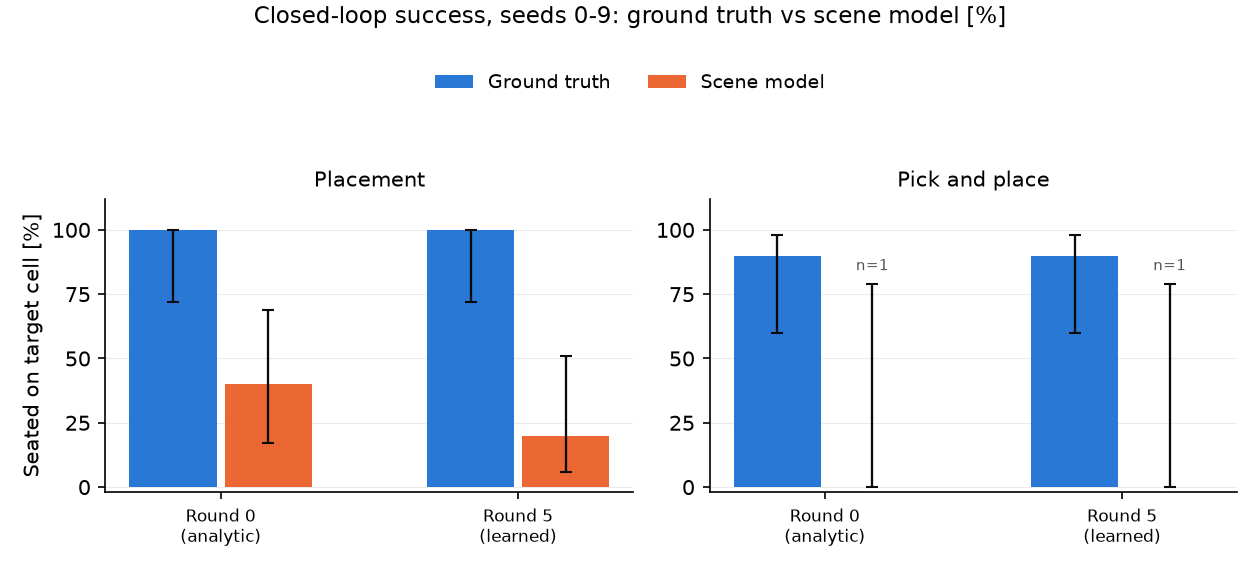
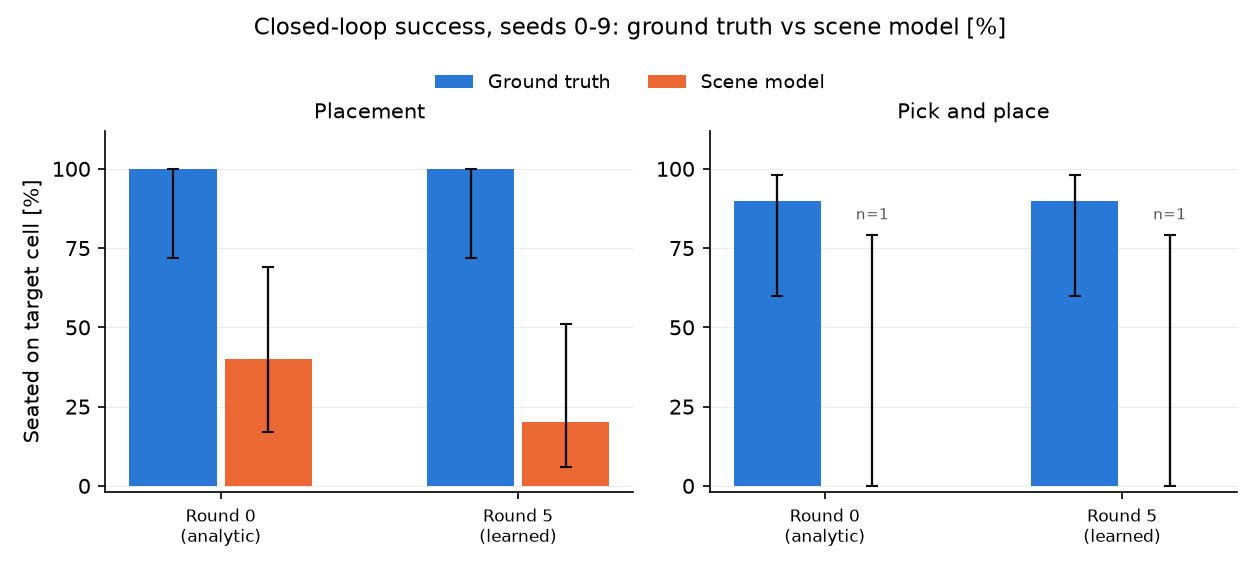
Correct the wall-time, mislabeling and blind-step claims on the scene-model page
The cost section misreported measured data: the five slowest round-5 placement
episodes were mistyped (missing 220.8 s), round 0 was described as ten placement
episodes when evaluate.csv has twenty (two predictor columns), and the page said
no per-episode replan/tick data existed to separate replanning from machine load
when evaluate.csv's replanned and vision_ticks columns show identical work across
rounds and even across predictor columns of the same round. Rewrote the section
from a fresh read of both rounds' evaluate.csv: round 5's slow tail belongs
entirely to the analytic-inverse recheck recheck_analytic reruns at the final
round, not to the learned pair, whose own placement rows run 17-56 s.

The mislabeling section misread the caches it cited: a ground-truth
pick_and_place Approach frame names supply_brick_0 in 520 of 620 frames, not an
empty set by design; placement's cnn body sets are empty in only 166 of 1597
frames (Align never empty), not "frequently empty"; and 'held' at
Release/Retract/Verify is the released brick's own MuJoCo body name, not a
mislabeling. Recomputed all three from the recorded pkl caches directly.

twin.py's BlindStep fix is now stated as inferred from _prepare_step, not
observed: no episode was run with the fix applied (a single-episode check
queued behind the machine's load and did not get a slot in time), and neither
place.py nor campaign/tasks.py give a blind step its own failure class, so its
[…]

diff --git a/tests/action/test_twin_blind_step.py b/tests/action/test_twin_blind_step.py
@@ -1,5 +1,4 @@
-"""`DigitalTwin.build_step` with nothing to line up on: a scored failure, not a batch-killing
-crash.
+"""DigitalTwin.build_step with too few reference blobs
 
 Under `--source cnn` the recorded reference set for a step can point at bodies the twin's own
 render never shows (the scene model's slot ids are not the renderer's instance ids -- see
@@ -25,7 +24,7 @@ def twin():
     twin.close()
 
 
-def test_zero_reference_blobs_raises_blind_step_not_runtime_error(twin, capsys) -> None:
+def test_zero_named_bodies_raises_blind_step_not_runtime_error(twin) -> None:
     from brick_builder.action.twin import BlindStep
 
     goal_tcp = np.array([0.20, 0.0, 0.05])
@@ -37,10 +36,42 @@ def test_zero_reference_blobs_raises_blind_step_not_runtime_error(twin, capsys) 
     assert isinstance(excinfo.value, RuntimeError)
 
 
-def test_zero_reference_blobs_logs_the_count(twin, capsys) -> None:
+def test_zero_named_bodies_logs_the_count(twin, capsys) -> None:
+    from brick_builder.action.twin import BlindStep
+
     goal_tcp = np.array([0.20, 0.0, 0.05])
-    with pytest.raises(Exception):
+    with pytest.raises(BlindStep):
         twin.build_step("Approach", goal_tcp, 0.0, {}, min_refs=1)
     err = capsys.readouterr().err
     assert "0 of 0 reference" in err
     assert "Approach" in err
+
+
+def test_one_named_body_out_of_frame_raises_blind_step(twin, monkeypatch, capsys) -> None:
+    """A body that `calibrate` resolves to a real slot (so it counts as a reference) but that
+    `reference_features` then finds no usable blob for (the "0 of the 1" case seen at `Lift` in
+    `results/campaign/closed_loop_cnn/rounds/r0/evaluate_process_0.log:59`) is the same branch as
+    the zero-bodies case above, with a non-zero denominator. `reference_features` is patched to
+    drop every centre it would otherwise report -- the truncation or tolerance mismatch that does
+    that in a real render is not reproduced here, only its effect on `build_step`.
+    """
+    from brick_builder.action import servo as servo_mod
+    from brick_builder.action.twin import BlindStep
+
+    real_reference_features = servo_mod.reference_features
+
+    def no_centres(state, references):
+        found = real_reference_features(state, references)
+        for name in found.centres:
+            found.centres[name] = None
+        return found
+
+    monkeypatch.setattr(servo_mod, "reference_features", no_centres)
+
+    goal_tcp = np.array([0.20, 0.0, 0.05])
+    bodies = {"the plate": twin.scene.plate.name}
+    with pytest.raises(BlindStep) as excinfo:
+        twin.build_step("Approach", goal_tcp, 0.0, bodies, min_refs=1)
+    assert "shows 0 of the 1 reference blobs" in str(excinfo.value)
+    err = capsys.readouterr().err
+    assert "0 of 1 reference" in err

diff --git a/brick_builder/action/learn/dataset.py b/brick_builder/action/learn/dataset.py
@@ -126,9 +126,11 @@ def hindsight_pairs(data: Episodes, rng: np.random.Generator, *, repeats: int = 
     dwell is: there the change of the scene between `i` and `i + j` is the correction's doing and
     not the feed-forward's. Leaving it `None` uses every acting tick.
 
-    Empty, not an error, when nothing in the log passes the `trusted & ~frozen` gate: `x`/`y` come
-    back with zero rows and `log` gets one line saying so, so a round with nothing to learn from
-    skips training instead of failing on `np.stack([])`.
+    Empty, not an error, when nothing in the log produces a usable window -- whether because
+    nothing passes the `trusted & ~frozen` gate, or because everything that does is then dropped
+    by the same-step or travel filter: `x`/`y` come back with zero rows and `log` gets one line
+    saying which case it was, so a round with nothing to learn from skips training instead of
+    failing on `np.stack([])`.
     """
     corr = data.corrections()
     obs, val, wgt = data["obs_rows"], data["obs_valid"], data["obs_weight"]
@@ -153,8 +155,14 @@ def hindsight_pairs(data: Episodes, rng: np.random.Generator, *, repeats: int = 
         idx.append(i)
         js.append(j)
     if not xs:
-        log(f"hindsight_pairs: 0 of {data.n} logged ticks pass the trusted-and-not-frozen gate "
-            f"({int(acting.sum())} acting tick(s) total); no hindsight pairs")
+        gate = int(acting.sum())
+        if gate == 0:
+            log(f"hindsight_pairs: 0 of {data.n} logged ticks pass the trusted-and-not-frozen "
+                f"gate; no hindsight pairs")
+        else:
+            log(f"hindsight_pairs: {gate} of {data.n} logged ticks pass the "
+                f"trusted-and-not-frozen gate, but same-step and travel filtering dropped every "
+                f"window; no hindsight pairs")
         x = np.zeros((0, INVERSE_IN), dtype=np.float64)
         y = np.zeros((0, INVERSE_OUT), dtype=np.float64)
     else:

diff --git a/brick_builder/action/twin.py b/brick_builder/action/twin.py
@@ -217,7 +217,8 @@ class DigitalTwin:
             # and treats the step as untrusted rather than losing the whole episode. The count is
             # printed here because nothing downstream of the catch sees this message again.
             print(f"twin: step {name!r} sees {len(names)} of {len(references)} reference "
-                  f"blob(s), needs {min_refs}; scoring this step blind", file=sys.stderr)
+                  f"blob(s), needs {min_refs}; step marked untrusted, no correction applied",
+                  file=sys.stderr)
             raise BlindStep(
                 f"step {name!r}: the twin only shows {len(names)} of the "
                 f"{len(references)} reference blobs, which is not enough to line up on"

diff --git a/docs/guide/16b-campaign-on-the-scene-model.md b/docs/guide/16b-campaign-on-the-scene-model.md
@@ -20,8 +20,7 @@ name differ from `docs/guide/16-closed-loop-campaign.md`.
 `brick_builder/perception/weights/vision_model.pt`, sha256
[1 lines of base64/hex data omitted]
 page is against this checkpoint. A later checkpoint at the same path needs its own sha256 line
-here and its own numbers; a changed weights file changes what the scene model reports, which is
-exactly what this page measures.
+here and its own numbers.
 
 `brick_builder/action/twin.py` and `brick_builder/action/learn/dataset.py` changed after the
 numbers below were measured (see Fixes to the crashes); the sha256 above did not change, and the
@@ -125,26 +124,45 @@ place's two scene-model bars are the same one-episode measurement described abov
 | Campaign | Round | Evaluate [min] | Episodes scored | Episodes crashed |
 |---|---|---|---|---|
 | `closed_loop_cnn` | 0 (analytic) | 18.8 | 21 / 30 | 9 |
-| `closed_loop_cnn` | 5 (r5 learned) | 49.3 | 41 / 50 | 9 |
+| `closed_loop_cnn` | 5 (learned, plus the analytic recheck) | 49.3 | 41 / 50 | 9 |
 
 Total heavy time for this step: 68.1 min inside `run_campaign.py` (both rounds, cumulative, the
 figure the campaign itself reports) plus roughly 10 min of one-off recording outside it, seeds 0-9
 for both tasks (see The pickling workaround) -- about 78 min against the 60-minute target.
 
-Placement's per-episode wall time spans widely and does not move the same way between rounds:
-round 0's ten placement episodes run 27-63 s; round 5's run 17-232 s, with its five slowest at
-151, 152, 163, 206 and 232 s. What made the slow round-5 episodes slower than round 0's is not
-measured here -- both replanning (a second attempt when the first cycle's brick does not land) and
-machine load from other work running at the same time are possible causes, and this page does not
-have per-episode replan counts or load samples to tell them apart.
+Placement's per-episode wall time spans widely and does not move the same way between rounds, or
+even between two rows of the same round. Round 0 scores placement twenty times (ten seeds against
+each of two `predictor` columns, the analytic inverse throughout): 27-63 s. Round 5 scores it forty
+times (ten seeds times two inverses times two `predictor` columns), 17-232 s, but the two halves
+do not behave alike: the twenty rows using the round-5 learned inverse run 17-56 s, inside round
+0's own span; every row above 150 s uses the analytic inverse that `recheck_analytic`
+(`campaign.py:402`) reruns at the final round for comparison -- its five slowest are 151.6, 162.8,
+205.6, 220.8 and 231.8 s. The 49.3 min in the table above includes this recheck; it is not the cost
+of the learned pair.
+
+`evaluate.csv`'s `replanned` and `vision_ticks` columns separate replanning from machine load for
+these analytic-inverse rows. The same seed carries the same `vision_ticks` and the same `replanned`
+flag in round 0 and round 5 (seed 0: 163 ticks, replanned, in both), and within round 5 itself the
+two `predictor` columns for the same seed and inverse also carry identical `vision_ticks`/`replanned`
+values yet differ in wall time by up to 4x -- seed 0: 54.0 s against 205.6 s; seed 9: 71.6 s against
+220.8 s, the slower column swapping sides between the two seeds. The recorded work is identical and
+the wall time is not, so machine load from the other work running on the machine at the same time,
+not replanning, accounts for the spread.
 
 ### Mislabeled reference bodies
 
-Every `pick_and_place` crash before the fix in twin.py (see Fixes to the crashes) raised the same
-exception at `Approach` or `Lift`:
+Every `pick_and_place` crash before the fix in twin.py (see Fixes to the crashes) raised
+`RuntimeError` from the same check in `build_step`, at `Approach` or `Lift`, with a different
+reference count each time -- Approach:
 
 ```
 RuntimeError: step 'Approach': the twin only shows 0 of the 0 reference blobs, which is not enough to line up on
+```
+
+and Lift:
+
+```
+RuntimeError: step 'Lift': the twin only shows 0 of the 1 reference blobs, which is not enough to line up on
 ```
 
 The exception comes from `brick_builder/action/twin.py`'s `build_step`, called from
@@ -163,24 +181,34 @@ recorded sequence carries the scene model's states throughout (`record_for` reco
 sequence through the same source that will drive the run), so `reference_bodies()` reads slot
 indices as if they were instance ids and names the wrong body, or none, at essentially every step.
 
-The recorded caches show this directly. A ground-truth `pick_and_place` recording's `Approach`
-step names an empty reference set (nothing to line up on is asked of the twin there by design);
-the matching `--source cnn` recording for seed 0 names `{'brick to pick up': 'supply_brick_0'}` at
-`Approach` -- a real body in the twin's scene, just not the one at that pose, so `calibrate()`
-matches nothing and `build_step` raises. `placement` recordings carry the same defect but it
-surfaces differently: their per-step body sets are frequently empty outright (`Transport {}`,
-`Align {}`), which `_prepare_step` already treats as an untrusted step without raising (a body
-dict that is empty, rather than non-empty and wrong, hits a different, pre-existing branch); other
-`placement` recordings carry non-empty but arbitrary sets (`Transport {'plate'}`,
-`Align {'placed brick 1'}`, `'held'` named as a reference at `Release`/`Retract`, where nothing is
-held). Both tasks' recorded reference sets are affected; `placement` does not raise because its
-sets are more often empty than wrong.
+The recorded caches show this only partially. A ground-truth `pick_and_place` recording's
+`Approach` step names `{'brick to pick up': 'supply_brick_0'}` in 520 of 620 frames across the ten
+seeds -- every frame after the first ten of each 62-frame step. The matching `--source cnn`
+recordings name the same body in 353 of 620 Approach frames and an empty set in the other 267,
+never any other body: `place.py`'s pick-and-place filter keeps only entries that already equal
+`SUPPLY_BODY` at `Approach`/`Grasp` (`place.py:595-603`), so whatever else the slot-id/instance-id
+mismatch mislabels there is dropped rather than shown. Why the label is present in some frames and
+absent in others under `--source cnn` is not traced further here.
+
+`placement` recordings carry the same slot-id/instance-id mismatch, but under `--source cnn` most
+of their per-step body sets are not empty: `Align` is empty in none of 400 cnn frames, `Transport`
+in 14 of 80, `Press the brick down` in 144 of 728, `Verify` in 8 of 150 -- 166 of 1597 frames
+overall, about 10 %. Some non-empty sets are arbitrary (`Transport {'plate'}`,
+`Align {'placed brick 1'}`), a direct instance of the mismatch reading a real body's name off a
+slot index that only coincides with that body's instance id by chance. Why `placement`'s
+`build_step` calls do not raise despite these wrong, non-empty sets is not analyzed further here.
+
+`held` named as a reference at `Release`, `Retract` and `Verify` in ground-truth `placement`
+recordings, in all ten seeds, is not a mislabeling: the released brick keeps the MuJoCo body name
+`held` (`compose.py:917`), and `reference_bodies()` only excludes it while `_in_hand(step)`
+(`place.py:594`) -- true through `Grasp`/`Lift`/`Transport`/`Align`/`Press the brick down`, false
+once the brick is let go, so it names the released brick's own body.
 
 The pattern that stays fixed across both inverses in the table above (seven seeds crash at
 `Approach`, two at `Lift`, seed 7 is the one that completes) is the recorded label, not either
 inverse: both rounds replay the same cached `pick_and_place` recordings. Fixing the label mapping
-is `record_ideal`/`reference_bodies` in `place.py`, a file this page does not edit; this page
-measures and reports it.
+needs a change in `record_ideal`/`reference_bodies` (`place.py`); this page reports the effect, not
+the fix.
 
 ### Training round
 
@@ -226,22 +254,26 @@ tests/action` also passes, 47 tests, no regressions).
   `_prepare_step` already catches `BlindStep` and marks the step untrusted instead of losing the
   episode. The first check now raises `BlindStep` too, and prints the count (blobs seen, blobs
   needed, the step name) to stderr before raising, since nothing downstream of the catch sees the
-  message again. A `pick_and_place` episode that hits this at `Approach` or `Lift` now plays that
-  step open-loop rather than raising; it is scored by `verify_placement` at the end like any other
-  episode. This was not re-run through a campaign (see Scene-model weights); the crash counts in
-  the table above are from before this change.
+  message again. Reading `_prepare_step`, a `pick_and_place` episode that hits this at `Approach`
+  or `Lift` should play that step open-loop and reach `verify_placement` at the end like any other
+  episode -- inferred from the code, not observed: no episode with the fix applied was run,
+  because a single-episode check queued behind the machine's other work and did not return in
+  time. Neither `place.py` nor `campaign/tasks.py`'s `EpisodeRecord` (both outside this page's
+  files) give the blind step its own failure class, so a blind step's effect on the reported
+  numbers is indistinguishable from any other cause of a low seated fraction in `evaluate.csv`.
+  This was not re-run through a campaign (see Scene-model weights); the crash counts in the table
+  above are from before this change.
 - **`brick_builder/action/learn/dataset.py`.** `hindsight_pairs` and `teacher_pairs` both crashed
   on `np.stack([])` when zero ticks passed the `trusted & ~frozen` gate. Both now return zero-row
   `x`/`y` arrays and log one line saying how many of how many ticks passed the gate, through an
   optional `log` argument (`print` by default). This does not, on its own, make
   `closed_loop_cnn_train`'s round 1 train cleanly: `train_inverse`
-  (`brick_builder/action/learn/train.py`, a file this page does not edit) reshapes
-  `obs[j] - obs[i]` against `len(i)` two lines after calling `hindsight_pairs`, and numpy refuses
-  to reshape a zero-size array into `(0, -1)` -- a different `ValueError`
-  (`cannot reshape array of size 0 into shape (0,newaxis)`), at `train.py:194`, confirmed by
-  calling `train_inverse` directly on a synthetic zero-acting-tick log. The round still ends the
-  campaign on this input; the crash moves one file and 17 lines, and fixing it needs a change in
-  `train.py`, which this page does not edit.
+  (`brick_builder/action/learn/train.py`) reshapes `obs[j] - obs[i]` against `len(i)` at
+  `train.py:194`, 18 lines after calling `hindsight_pairs` at `train.py:176`, and numpy refuses to
+  reshape a zero-size array into `(0, -1)` -- a different `ValueError`
+  (`cannot reshape array of size 0 into shape (0,newaxis)`), confirmed by calling `train_inverse`
+  directly on a synthetic zero-acting-tick log. The round still ends the campaign on this input;
+  fixing it needs a change in `train.py`.
 
 ## The pickling workaround
 
@@ -263,8 +295,8 @@ way, and nothing before this page had run the closed loop with `--source cnn` en
 `decode` is documented as "viewer/evaluation only... not read by anything on the control path"
 (`scene_model.py`), so dropping `_decode_fn` before the cache is written changes nothing the loop
 reads. Fixing `record_for` or `SceneState` itself needs changes in `brick_builder/campaign/**` and
-`brick_builder/perception/**`, neither of which this page edits; the numbers on this page instead
-come from a one-off script, run separately and never imported by the repository, that
+`brick_builder/perception/**`; the numbers on this page instead come from a one-off script, run
+separately and never imported by the repository, that
 monkey-patches `SceneState.__getstate__` to drop the field and
 pre-populates the ideal-sequence cache before the unmodified `run_campaign.py` / `campaign.runner`
 pipeline reads it back with a plain `pickle.load`. The cache files it wrote are ordinary pickles
@@ -296,5 +328,8 @@ populate the cache itself and remove the need for it.
   round and Fixes to the crashes), so there is no round-1 pair, no round 2, and nothing to compare
   against `docs/guide/16-closed-loop-campaign.md`'s own five rounds of ground-truth training.
 - The dataset.py fix (see Fixes to the crashes) does not by itself get `closed_loop_cnn_train`
-  past round 1: `train_inverse` (`brick_builder/action/learn/train.py`) still raises on the same
-  zero-tick input, two lines further into training, in a file this page does not edit.
+  past round 1: `train_inverse` (`brick_builder/action/learn/train.py:194`) still raises on the
+  same zero-tick input, 18 lines further into training than the `hindsight_pairs` call.
+- The twin.py fix's effect on a `pick_and_place` episode is inferred from reading `_prepare_step`,
+  not observed: no episode was run with the fix applied (see Fixes to the crashes), and neither
+  `place.py` nor `campaign/tasks.py` give a blind step its own failure class in `evaluate.csv`.
